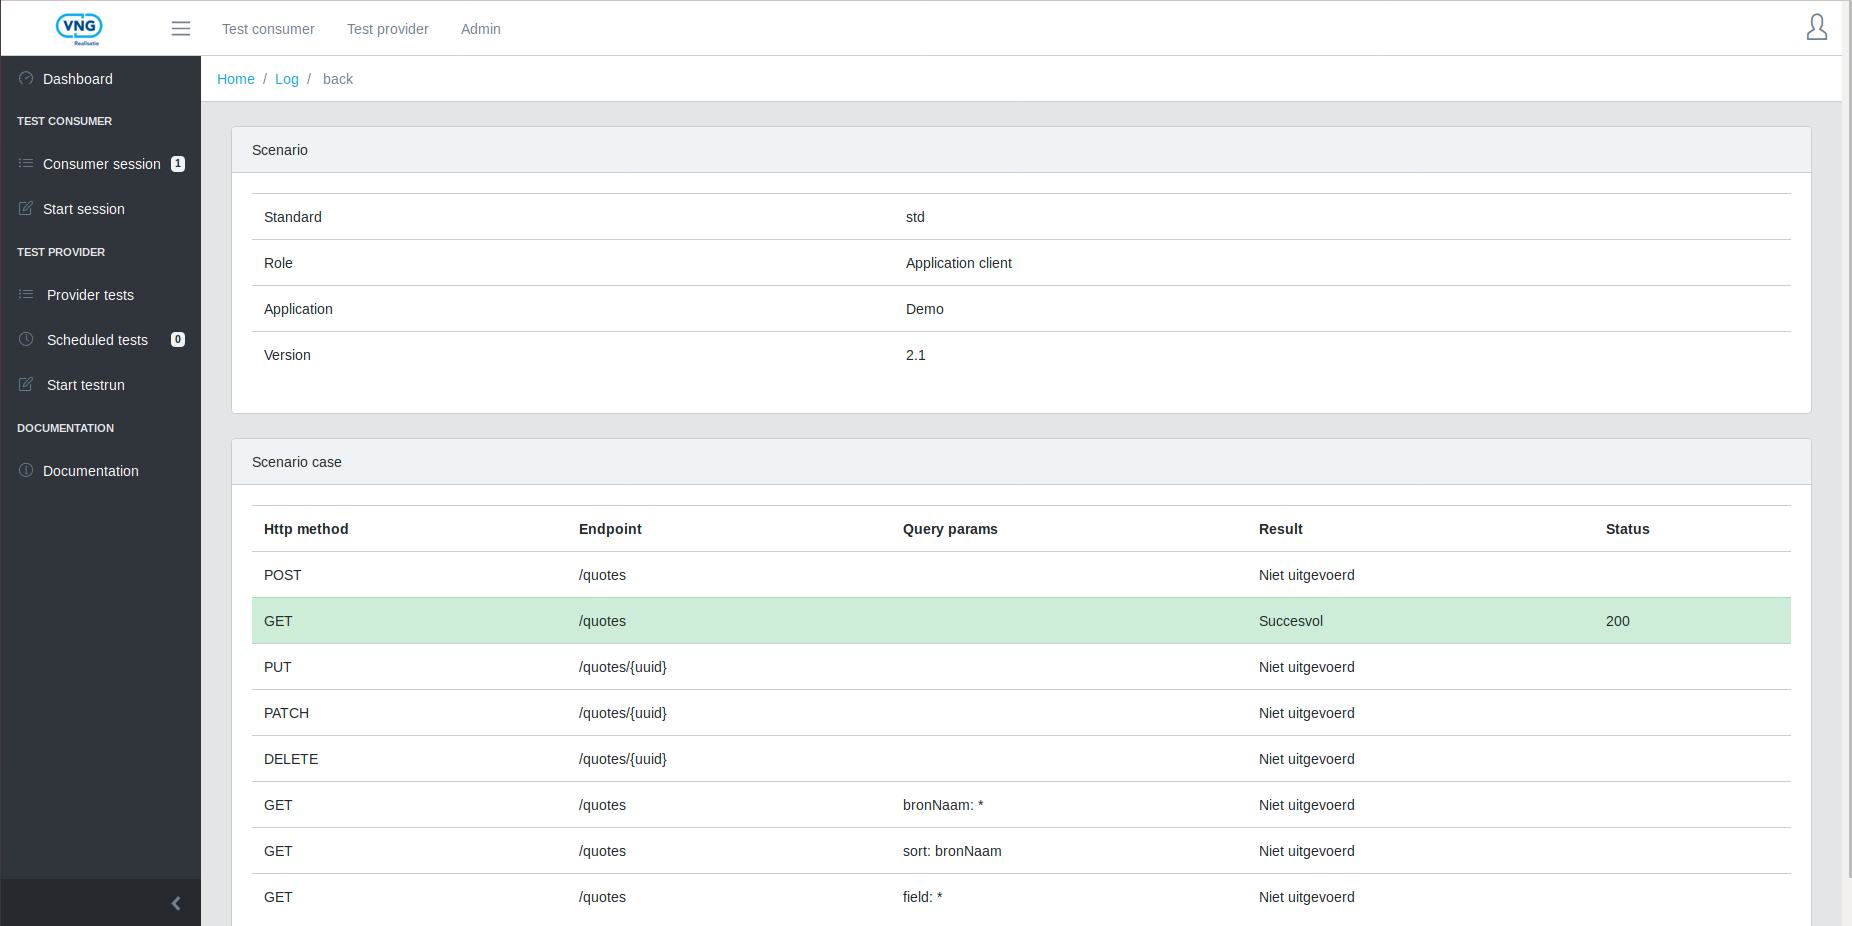
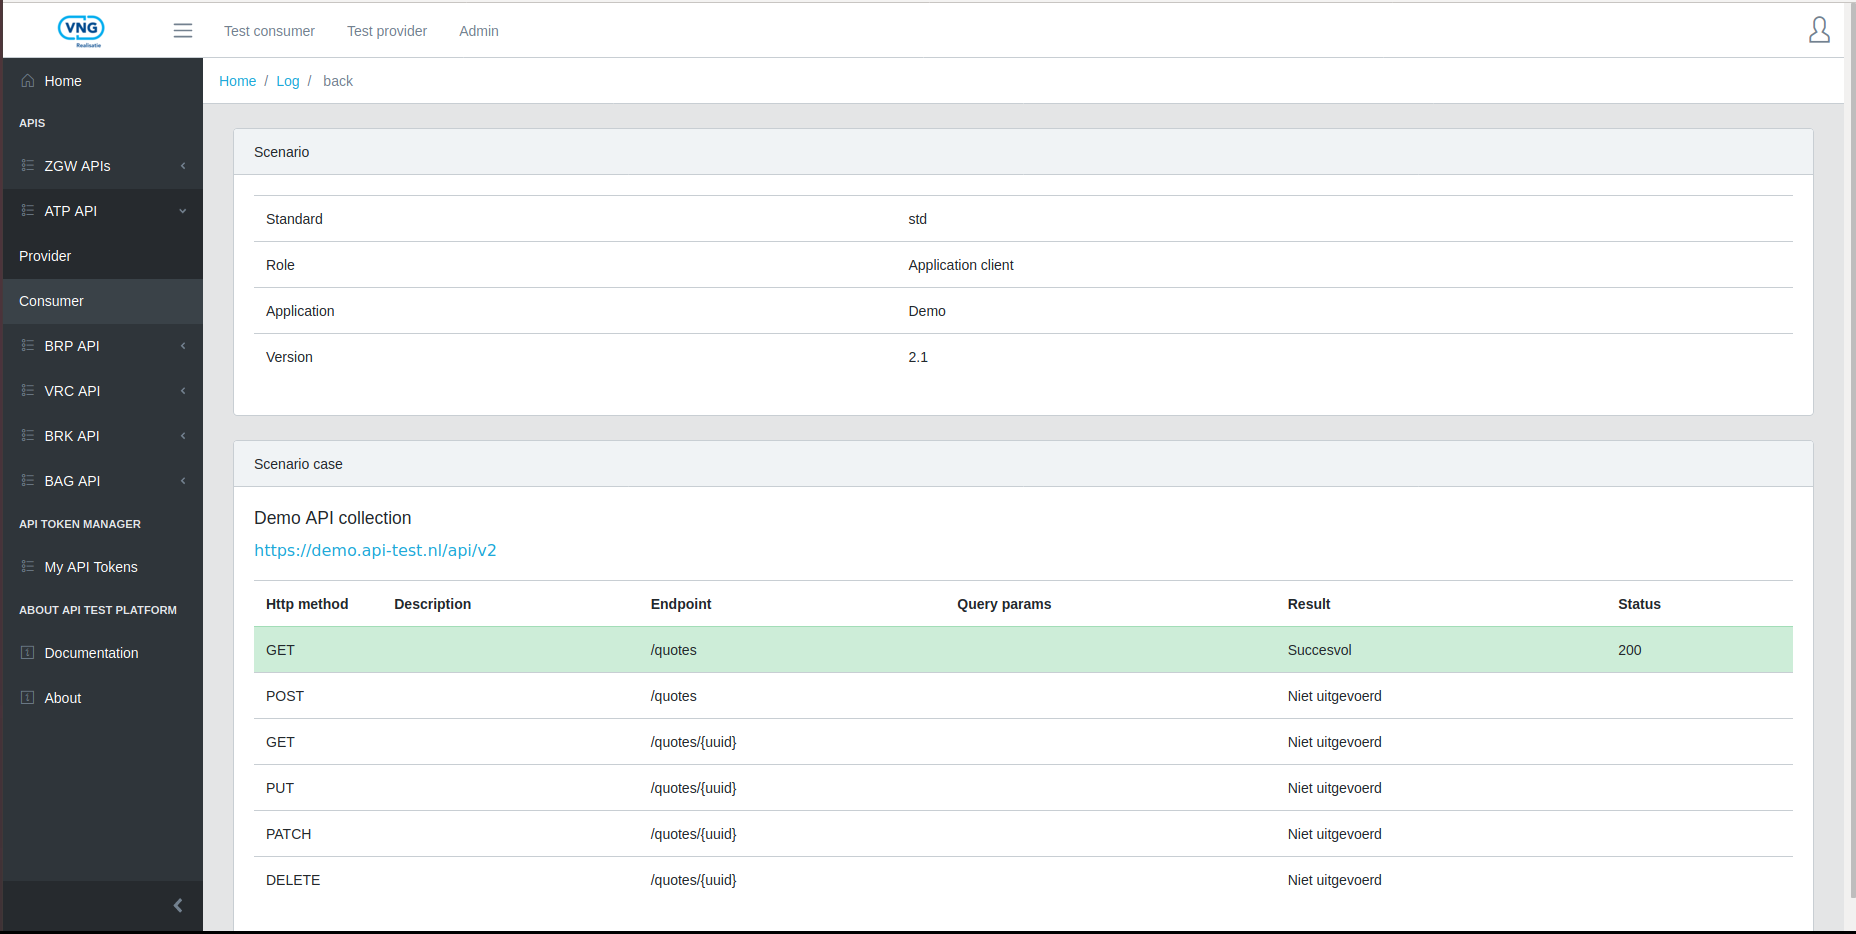
Updated tutorial for consumer testing

diff --git a/tutorials/CONSUMER_SESSION.md b/tutorials/CONSUMER_SESSION.md
@@ -17,9 +17,16 @@ For this tutorial, the [Demo API](https://demo.api-test.nl/api/v2/schema/) will 
 
 In this tutorial, Postman is used to make API calls, a tutorial for Postman can be found [here](https://learning.getpostman.com/docs/postman/launching_postman/installation_and_updates/).
 
+## Select an API to test
+In the menu on the right, a list is displayed of the APIs that can be tested on the API Test Platform. Select the API that you wish to test and click on `Consumer`. For this tutorial, we will use the API of the ATP itself.
+![](https://raw.githubusercontent.com/VNG-Realisatie/api-testvoorziening/master/tutorials/images/select_consumer.png)
+
 ## Starting a session
+From the session list page, we click on `Start session` in the top right corner of the page.
+![](https://raw.githubusercontent.com/VNG-Realisatie/api-testvoorziening/master/tutorials/images/session_list.png)
+
 To start a session click on **Start session** in the left hand side bar. 
-A list of all the possible session is presented, clicking on the name of a session type, a brief description of it is displayed.  
+A list of all possible session types is presented, clicking on the name of a session type, a brief description of it is displayed.  
 ![](https://raw.githubusercontent.com/VNG-Realisatie/api-testvoorziening/master/tutorials/images/start_testrun.png)   
 The functionality of the checkbox **sandbox** is explained below.
 
@@ -40,14 +47,13 @@ Clicking of the report page, the list of all the calls that should be performed 
 
 In the case of the Demo API, if a GET request is made to the `quotes` endpoint, as shown below:
 
-![](https://raw.githubusercontent.com/VNG-Realisatie/api-testvoorziening/master/tutorials/images/postman_request2.png)
+![](https://raw.githubusercontent.com/VNG-Realisatie/api-testvoorziening/master/tutorials/images/postman_request1.png)
 
 It will appear in the `Report` of the session as a successful call:
 
 ![](https://raw.githubusercontent.com/VNG-Realisatie/api-testvoorziening/master/tutorials/images/consumers_report.png)
 
 If the **sandbox** option has been checked, it is possible to call several times the same url path and override the result with the last one. On the other side, if the sandbox option is off, only the first result is saved.  
-It is possible to export the result clicking through the **Rapport PDF** button to download a detail PDF of the scenario cases.  
 
 ## Running the tests
 When the consumer session is stopped, if a test file with Postman testscripts was provided, it will be run against the endpoints for additional validation.
